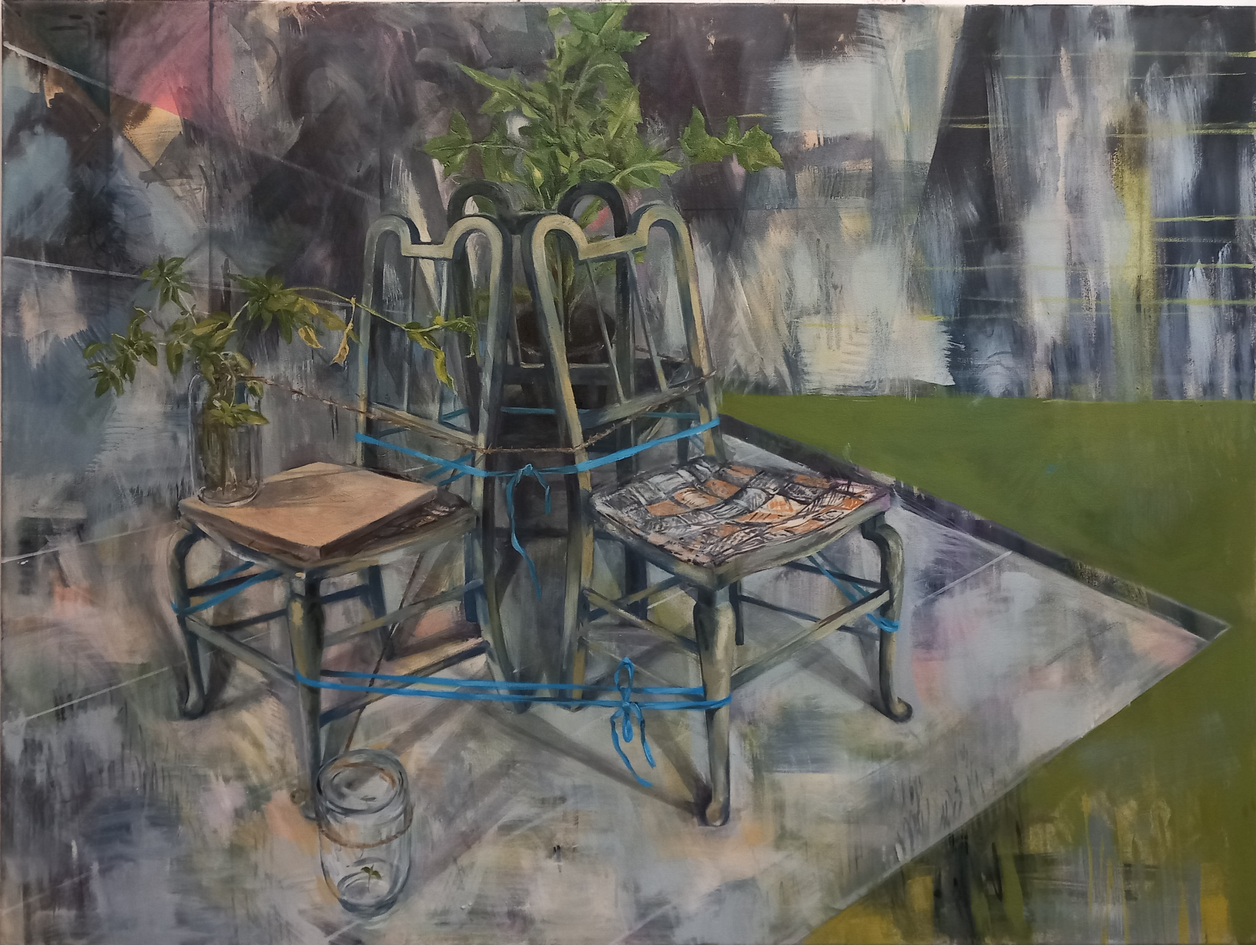
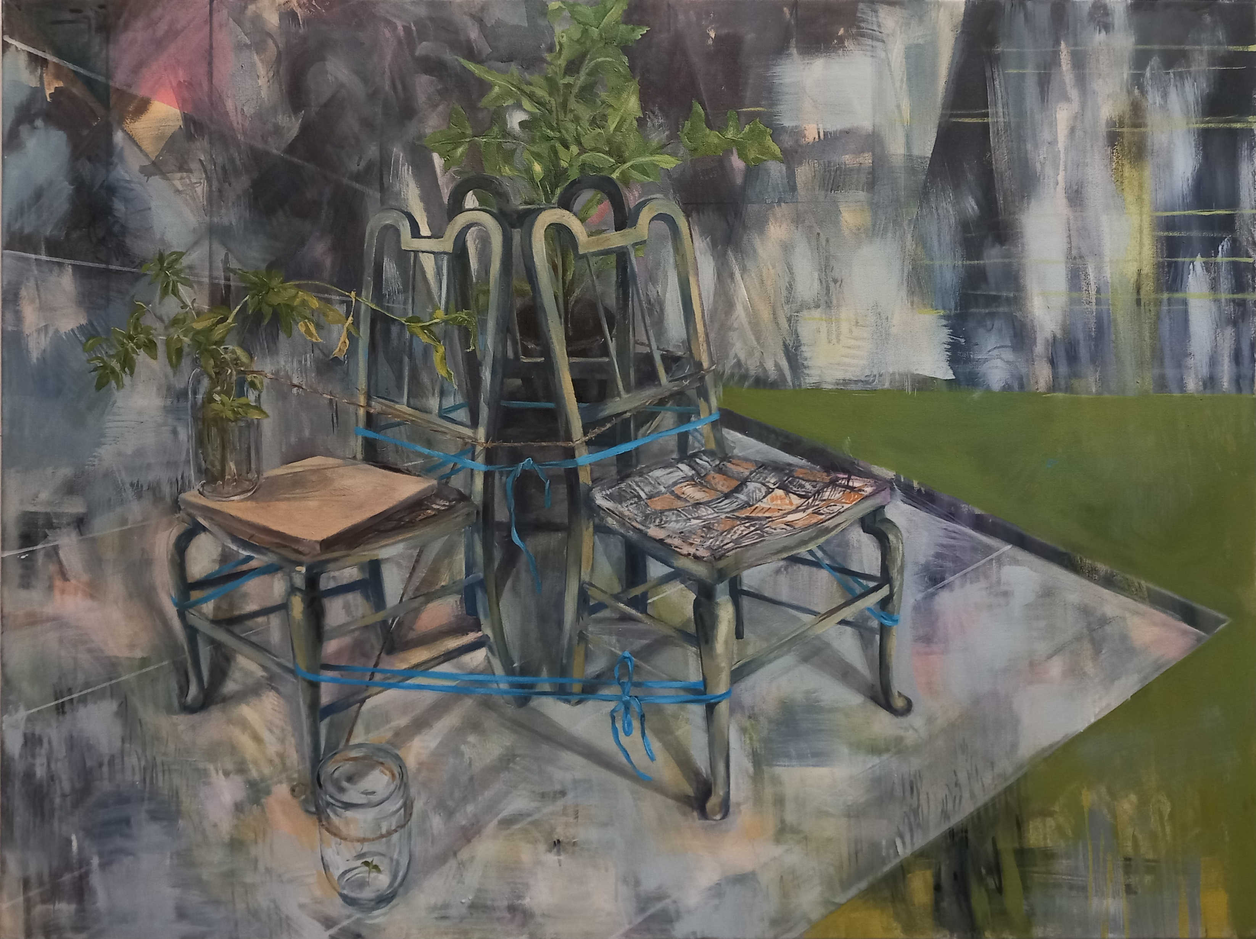
updated images

diff --git a/work.html b/work.html
@@ -15,28 +15,27 @@
 	</head>
 	<body class="full-height">
 		<header>
-			<a href="/"><h1>Emma<br/>Fisher</h1></a>
+			<a href="/"><h1>EMMA<br/>FISHER</h1></a>
 			<nav>
 				<ul aria-label="Main" class="title-font">
 					<li><a href="/statement">Artist Statement</a></li>
 					<li><a href="/work">Available Works</a></li>
 					<li><a href="/exhibition">Exhibition History</a></li>
+					<li><ul aria-label="Socials">
+						<li><a href="https://www.instagram.com/emmafisherhere/" style="--brand-colour:#ff0076; scale: .9/*so there is padding*/;">
+							<span class="non-visual">Instagram</span>
+							<svg xmlns="http://www.w3.org/2000/svg" viewBox="0 0 1000 1000">
+								<path style="fill: currentColor;" d="M295.42,6c-53.2,2.51-89.53,11-121.29,23.48-32.87,12.81-60.73,30-88.45,57.82S40.89,143,28.17,175.92c-12.31,31.83-20.65,68.19-23,121.42S2.3,367.68,2.56,503.46,3.42,656.26,6,709.6c2.54,53.19,11,89.51,23.48,121.28,12.83,32.87,30,60.72,57.83,88.45S143,964.09,176,976.83c31.8,12.29,68.17,20.67,121.39,23s70.35,2.87,206.09,2.61,152.83-.86,206.16-3.39S799.1,988,830.88,975.58c32.87-12.86,60.74-30,88.45-57.84S964.1,862,976.81,829.06c12.32-31.8,20.69-68.17,23-121.35,2.33-53.37,2.88-70.41,2.62-206.17s-.87-152.78-3.4-206.1-11-89.53-23.47-121.32c-12.85-32.87-30-60.7-57.82-88.45S862,40.87,829.07,28.19c-31.82-12.31-68.17-20.7-121.39-23S637.33,2.3,501.54,2.56,348.75,3.4,295.42,6m5.84,903.88c-48.75-2.12-75.22-10.22-92.86-17-23.36-9-40-19.88-57.58-37.29s-28.38-34.11-37.5-57.42c-6.85-17.64-15.1-44.08-17.38-92.83-2.48-52.69-3-68.51-3.29-202s.22-149.29,2.53-202c2.08-48.71,10.23-75.21,17-92.84,9-23.39,19.84-40,37.29-57.57s34.1-28.39,57.43-37.51c17.62-6.88,44.06-15.06,92.79-17.38,52.73-2.5,68.53-3,202-3.29s149.31.21,202.06,2.53c48.71,2.12,75.22,10.19,92.83,17,23.37,9,40,19.81,57.57,37.29s28.4,34.07,37.52,57.45c6.89,17.57,15.07,44,17.37,92.76,2.51,52.73,3.08,68.54,3.32,202s-.23,149.31-2.54,202c-2.13,48.75-10.21,75.23-17,92.89-9,23.35-19.85,40-37.31,57.56s-34.09,28.38-57.43,37.5c-17.6,6.87-44.07,15.07-92.76,17.39-52.73,2.48-68.53,3-202.05,3.29s-149.27-.25-202-2.53m407.6-674.61a60,60,0,1,0,59.88-60.1,60,60,0,0,0-59.88,60.1M245.77,503c.28,141.8,115.44,256.49,257.21,256.22S759.52,643.8,759.25,502,643.79,245.48,502,245.76,245.5,361.22,245.77,503m90.06-.18a166.67,166.67,0,1,1,167,166.34,166.65,166.65,0,0,1-167-166.34" transform="translate(-2.5 -2.5)"/>
+							</svg>
+						</a></li>
+						<li><a href="mailto:eandajoy@googlemail.com" style="--brand-colour:#000;">
+							<span class="non-visual">Email</span>
+							<svg xmlns="http://www.w3.org/2000/svg" viewBox="0 0 100 100">
+								<path style="stroke: currentColor;" d="M 10 25 L 10 75 L 90 75 L 90 25 Z M 10 25 L 50 60 L 90 25" fill="none" stroke-width="7.5"></path>
+							</svg>
+						</a></li>
+					</ul></li>
 				</ul>
-				<ul aria-label="Socials">
-					<li><a href="https://www.instagram.com/emmafisherhere/" style="--brand-colour:#ff0076; scale: .9/*so there is padding*/;">
-						<span class="non-visual">Instagram</span>
-						<svg xmlns="http://www.w3.org/2000/svg" viewBox="0 0 1000 1000">
-							<path style="fill: currentColor;" d="M295.42,6c-53.2,2.51-89.53,11-121.29,23.48-32.87,12.81-60.73,30-88.45,57.82S40.89,143,28.17,175.92c-12.31,31.83-20.65,68.19-23,121.42S2.3,367.68,2.56,503.46,3.42,656.26,6,709.6c2.54,53.19,11,89.51,23.48,121.28,12.83,32.87,30,60.72,57.83,88.45S143,964.09,176,976.83c31.8,12.29,68.17,20.67,121.39,23s70.35,2.87,206.09,2.61,152.83-.86,206.16-3.39S799.1,988,830.88,975.58c32.87-12.86,60.74-30,88.45-57.84S964.1,862,976.81,829.06c12.32-31.8,20.69-68.17,23-121.35,2.33-53.37,2.88-70.41,2.62-206.17s-.87-152.78-3.4-206.1-11-89.53-23.47-121.32c-12.85-32.87-30-60.7-57.82-88.45S862,40.87,829.07,28.19c-31.82-12.31-68.17-20.7-121.39-23S637.33,2.3,501.54,2.56,348.75,3.4,295.42,6m5.84,903.88c-48.75-2.12-75.22-10.22-92.86-17-23.36-9-40-19.88-57.58-37.29s-28.38-34.11-37.5-57.42c-6.85-17.64-15.1-44.08-17.38-92.83-2.48-52.69-3-68.51-3.29-202s.22-149.29,2.53-202c2.08-48.71,10.23-75.21,17-92.84,9-23.39,19.84-40,37.29-57.57s34.1-28.39,57.43-37.51c17.62-6.88,44.06-15.06,92.79-17.38,52.73-2.5,68.53-3,202-3.29s149.31.21,202.06,2.53c48.71,2.12,75.22,10.19,92.83,17,23.37,9,40,19.81,57.57,37.29s28.4,34.07,37.52,57.45c6.89,17.57,15.07,44,17.37,92.76,2.51,52.73,3.08,68.54,3.32,202s-.23,149.31-2.54,202c-2.13,48.75-10.21,75.23-17,92.89-9,23.35-19.85,40-37.31,57.56s-34.09,28.38-57.43,37.5c-17.6,6.87-44.07,15.07-92.76,17.39-52.73,2.48-68.53,3-202.05,3.29s-149.27-.25-202-2.53m407.6-674.61a60,60,0,1,0,59.88-60.1,60,60,0,0,0-59.88,60.1M245.77,503c.28,141.8,115.44,256.49,257.21,256.22S759.52,643.8,759.25,502,643.79,245.48,502,245.76,245.5,361.22,245.77,503m90.06-.18a166.67,166.67,0,1,1,167,166.34,166.65,166.65,0,0,1-167-166.34" transform="translate(-2.5 -2.5)"/>
-						</svg>
-					</a></li>
-					<li><a href="mailto:eandajoy@googlemail.com" style="--brand-colour:#000;">
-						<span class="non-visual">Email</span>
-						<svg xmlns="http://www.w3.org/2000/svg" viewBox="0 0 100 100">
-							<path style="stroke: currentColor;" d="M 10 25 L 10 75 L 90 75 L 90 25 Z M 10 25 L 50 60 L 90 25" fill="none" stroke-width="7.5"></path>
-						</svg>
-					</a></li>
-				</ul>
-				<span class="small-text">&copy; All images copyright of Emma Fisher</span>
 			</nav>
 		</header>
 		<main component="carousel">
@@ -58,7 +57,7 @@
 					<p>Oil on canvas</p>
 				</button></li>
 				<li><button component="image-display-box">
-					<img src="/images/Perfomance_-_The_Uncontainable_Deluge.jpeg" />
+					<img src="/images/Perfomance_-_The_Uncontainable_Deluge.png" />
 					<h3>Perfomance - The Uncontainable Deluge</h3>
 					<p>Oil on canvas</p>
 				</button></li>
@@ -110,7 +109,7 @@
 				<li><button component="image-display-box">
 					<img src="/images/Passive,_Futile,_Protection.jpg">
 					<h3>Passive, Futile, Protection</h3>
-					<p>Oil on canvas</p>
+					<p>Acrylic on Board</p>
 				</button></li>
 				<li><button component="image-display-box">
 					<img src="/images/unnamed2.png">
@@ -123,7 +122,7 @@
 					<p>Oil on canvas</p>
 				</button></li>
 				<li><button component="image-display-box">
-					<img src="/images/Honestly_not_falling_far_from_the_tree.png">
+					<img src="/images/Honestly_not_falling_far_from_the_tree.jpg">
 					<h3>Honestly Not Falling Far From The Tree</h3>
 					<p>Oil on canvas</p>
 				</button></li>
@@ -160,6 +159,9 @@
 			</ul>
 			<button><span class="non-visual">Next Item</span></button>
 		</main>
+		<footer>
+			<span class="small-text">&copy; All images copyright of Emma Fisher</span>
+		</footer>
 		<dialog id="ImageViewer">
 			<button zoom="1.1">
 				<span aria-hidden="true">+</span>
